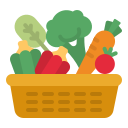
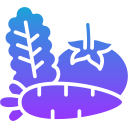
TASK#3. Project

diff --git a/style.css b/style.css
@@ -247,9 +247,10 @@ footer {
 .services_items p {
     text-align: center;
 }
-.services_items:hover {
-    transform: translateY(-10px) scale(1.09);
-}
+    .services_items:hover {
+        transform: translateY(-10px) scale(1.09);
+        filter: drop-shadow(0 0 5px aqua) drop-shadow(0 0 10px blue);
+    }
 .services_items a{
     text-decoration: none;  
     color: black;
@@ -293,6 +294,11 @@ a , p .services_items{
 .border {
     text-align: center;
     border-top: 3px solid aqua;
+}
+.services_wrap {
+    background-color: skyblue;
+    padding: 40px;
+    border-radius: 30px;
 }
 /*עזרה מהצאט*/
 .like:hover {

diff --git a/index.html b/index.html
@@ -99,7 +99,7 @@
                                 <img src="img/recipe-down.png" alt="recipe" />
                                 <p>all of our best recipes that are rated 7/10 or higher</p>
                                 <div class="service_footer">
-                                    <span>Views: 102k</span>
+                                    <span>Views: 16k</span>
                                     <button class="like">❤</button>
                                 </div>
                             </div>
